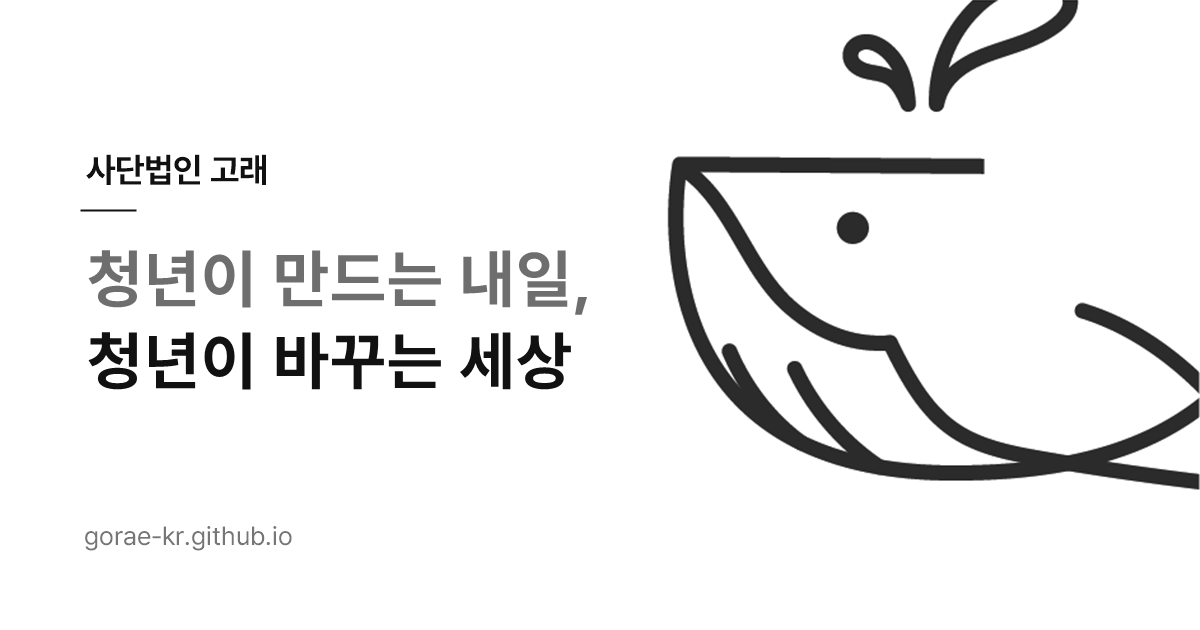
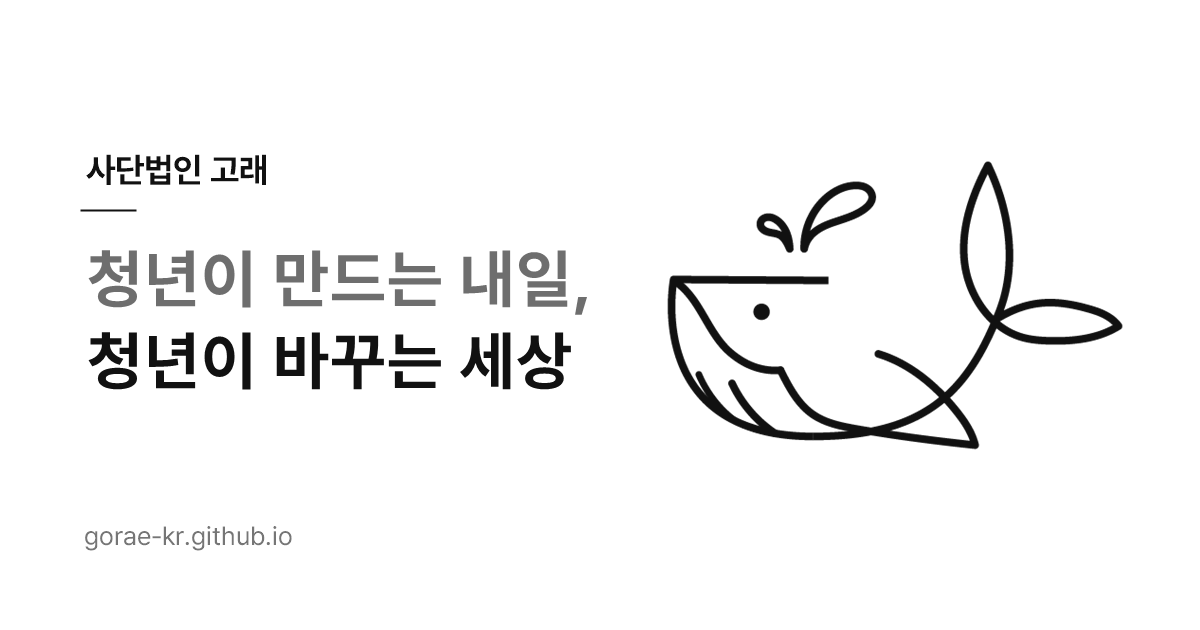
공식 로고(꼬리 있는 고래 전체)로 교체
- 명함에서 잘라 쓰던 고래 대신 원본 로고 파일의 고래 전체를 사용
- 메인·지부 페이지 상단 고래 위치를 잘리지 않게 조정
- 파비콘(브라우저 탭 아이콘)과 링크 미리보기 이미지도 새 로고로 변경

Changed region(s): [[0.555, 0.2413, 1.0, 0.7841], [0.6783, 0.0, 0.925, 0.181]]

diff --git a/assets/site.css b/assets/site.css
@@ -28,7 +28,7 @@ header{position:fixed;inset:0 0 auto;height:var(--hd);background:rgba(255,255,25
 header.line{border-bottom:1px solid var(--line)}
 header .w{display:flex;align-items:center;justify-content:space-between;height:100%}
 .brand{display:flex;align-items:center;gap:10px;font-weight:700;font-size:18px;letter-spacing:-.02em}
-.brand img{height:28px}
+.brand img{height:26px;width:auto}
 .brand span{font-weight:500;color:var(--sub);margin-right:3px}
 .gnb{display:flex;align-items:center;gap:34px;font-size:15px;font-weight:500}
 .gnb a{position:relative;padding:4px 0}
@@ -61,7 +61,7 @@ body.open .menu-btn i:nth-child(3){top:9px;transform:rotate(-45deg)}
 .hero h1 .l2{color:var(--fg);display:block}
 .hero-desc{display:flex;justify-content:space-between;align-items:flex-end;gap:32px;margin-top:56px;flex-wrap:wrap}
 .hero-desc p{max-width:440px;font-size:17px;color:#444}
-.hero-whale{position:absolute;top:var(--hd);right:0;width:min(470px,36vw);pointer-events:none}
+.hero-whale{position:absolute;top:calc(var(--hd) + 72px);right:max(24px,calc((100vw - 1200px) / 2 + 24px));width:min(440px,34vw);pointer-events:none}
 .ready .hero-whale{opacity:1;transform:none}
 .hero-whale img{width:100%;transform-origin:30% 60%;animation:bob 5.5s ease-in-out infinite}
 @keyframes bob{
@@ -97,7 +97,7 @@ body.open .menu-btn i:nth-child(3){top:9px;transform:rotate(-45deg)}
 .benefits strong{display:block;font-size:18px;font-weight:600;margin:6px 0 6px}
 .benefits p{font-size:15px;color:var(--sub)}
 @media(max-width:700px){.benefits{grid-template-columns:1fr}.benefits li:nth-child(even){padding-left:0;border-left:0}}
-@media(max-width:860px){.hero{padding-top:calc(var(--hd) + 220px)}.hero-whale{width:62vw;max-width:340px}}
+@media(max-width:860px){.hero{padding-top:calc(var(--hd) + 230px)}.hero-whale{top:calc(var(--hd) + 32px);right:24px;width:min(270px,62vw)}}
 
 .arrow-link{display:inline-flex;align-items:center;gap:10px;font-weight:600;font-size:15px;padding-bottom:4px;border-bottom:1.5px solid var(--fg);transition:gap .2s}
 .arrow-link:hover{gap:16px}
@@ -295,8 +295,8 @@ footer p{line-height:1.9}
 .branch-hero h1 .l1{color:var(--gray);display:block}
 .branch-hero h1 .l2{display:block}
 .branch-hero .lead{margin-top:28px;max-width:520px;font-size:17px;color:#444}
-.branch-hero .hero-whale{top:var(--hd);width:min(380px,30vw)}
-@media(max-width:860px){.branch-hero{padding-top:calc(var(--hd) + 180px)}.branch-hero .hero-whale{width:52vw;max-width:280px}}
+.branch-hero .hero-whale{top:calc(var(--hd) + 56px);width:min(360px,30vw)}
+@media(max-width:860px){.branch-hero{padding-top:calc(var(--hd) + 200px)}.branch-hero .hero-whale{top:calc(var(--hd) + 28px);width:min(230px,54vw)}}
 .branch-body{display:grid;grid-template-columns:1.25fr 1fr;gap:56px;align-items:start}
 .branch-body>*{min-width:0}
 @media(max-width:900px){.branch-body{grid-template-columns:1fr;gap:40px}}

diff --git a/index.html b/index.html
@@ -22,7 +22,8 @@
 <script type="application/ld+json">
 {"@context":"https://schema.org","@type":"NGO","name":"사단법인 고래","alternateName":["고래","Gorae"],"url":"https://gorae-kr.github.io/","logo":"https://gorae-kr.github.io/assets/whale.png","email":"wwwhhh.kor@gmail.com","telephone":"+82-10-6370-0437","address":{"@type":"PostalAddress","streetAddress":"무학로 161, 2층","addressLocality":"수성구","addressRegion":"대구광역시","addressCountry":"KR"},"sameAs":["https://www.instagram.com/go.rae"]}
 </script>
-<link rel="icon" href="assets/whale.png">
+<link rel="icon" href="assets/favicon.png">
+<link rel="apple-touch-icon" href="assets/favicon.png">
 <link rel="stylesheet" href="https://cdn.jsdelivr.net/gh/orioncactus/pretendard@v1.3.9/dist/web/variable/pretendardvariable.min.css">
 <link rel="stylesheet" href="assets/site.css">
 </head>

diff --git a/gwangju/index.html b/gwangju/index.html
@@ -17,7 +17,8 @@
 <meta property="og:image:alt" content="사단법인 고래 - 청년이 만드는 내일, 청년이 바꾸는 세상">
 <meta name="twitter:card" content="summary_large_image">
 <meta property="og:locale" content="ko_KR">
-<link rel="icon" href="../assets/whale.png">
+<link rel="icon" href="../assets/favicon.png">
+<link rel="apple-touch-icon" href="../assets/favicon.png">
 <link rel="stylesheet" href="https://cdn.jsdelivr.net/gh/orioncactus/pretendard@v1.3.9/dist/web/variable/pretendardvariable.min.css">
 <link rel="stylesheet" href="../assets/site.css">
 </head>

diff --git a/ulsan/index.html b/ulsan/index.html
@@ -17,7 +17,8 @@
 <meta property="og:image:alt" content="사단법인 고래 - 청년이 만드는 내일, 청년이 바꾸는 세상">
 <meta name="twitter:card" content="summary_large_image">
 <meta property="og:locale" content="ko_KR">
-<link rel="icon" href="../assets/whale.png">
+<link rel="icon" href="../assets/favicon.png">
+<link rel="apple-touch-icon" href="../assets/favicon.png">
 <link rel="stylesheet" href="https://cdn.jsdelivr.net/gh/orioncactus/pretendard@v1.3.9/dist/web/variable/pretendardvariable.min.css">
 <link rel="stylesheet" href="../assets/site.css">
 </head>
